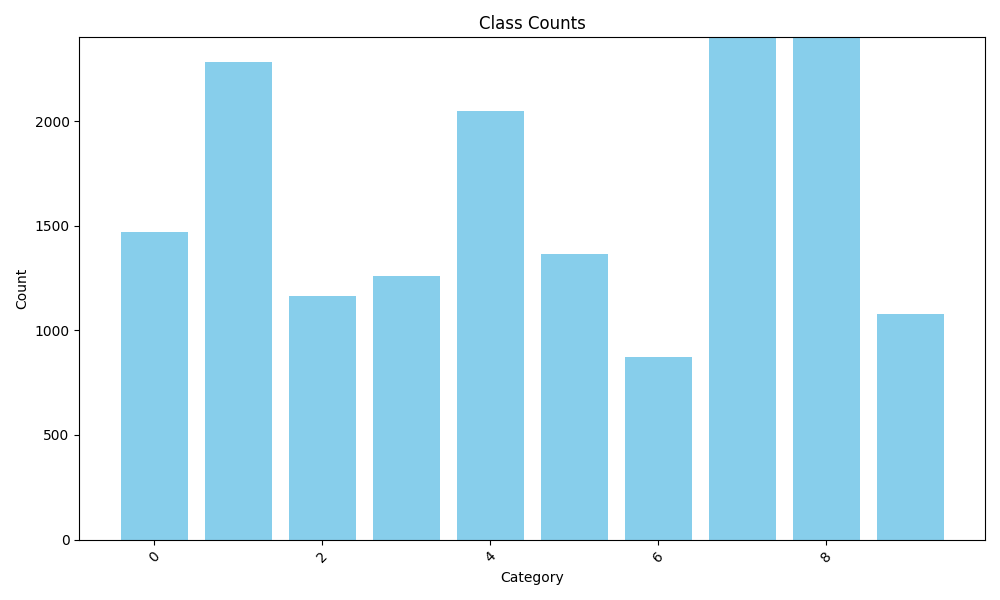
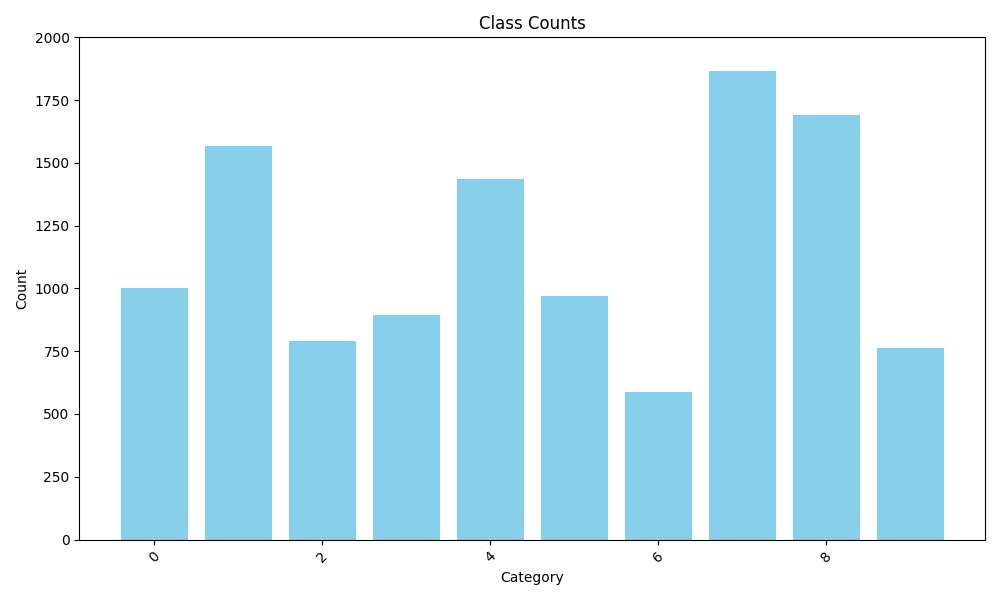
split dataset correctly

diff --git a/format_dataset_stratify.py b/format_dataset_stratify.py
@@ -1,0 +1,198 @@
+import shutil
+from typing import Tuple
+import pandas as pd
+import os
+import glob
+
+def generate_csv():
+    # Specify the directory containing images and labels
+    image_dir = 'datasets/trash_detection/images'
+    label_dir = 'datasets/trash_detection/labels'
+
+    # Get all image file paths
+    image_paths = glob.glob(os.path.join(image_dir, "*.jpg")) \
+        + glob.glob(os.path.join(image_dir, "*.png")) \
+        + glob.glob(os.path.join(image_dir, "*.jpeg"))
+
+    # Get all label file paths
+    label_paths = glob.glob(os.path.join(label_dir, "*.txt"))
+
+    # Create a dictionary to store data
+    data = {
+        "file_path": [],
+        "label_path": [],
+        "labels": [],
+    }
+
+    # Initialize a set to store class names
+    classes_set = set()
+
+    # Process each label file
+    for label_path in label_paths:
+        with open(label_path, "r") as file:
+            lines = file.readlines()
+            classes_in_image = {}
+            for line in lines:
+                if line.strip():
+                    class_id = line.split()[0]
+                    # Increment class count
+                    if class_id in classes_in_image:
+                        classes_in_image[class_id] += 1
+                    else:
+                        classes_in_image[class_id] = 1
+                    classes_set.add(class_id)
+            
+            # Save file path and labels to data
+            data["label_path"].append(label_path)
+            corresponding_image_path = label_path.replace(label_dir, image_dir).replace('.txt', '.jpg')
+            data["file_path"].append(corresponding_image_path)
+            data["labels"].append(classes_in_image)
+
+    # Add class columns to data
+    for class_name in sorted(classes_set):
+        data[class_name] = []
+
+    # Fill in class columns
+    for labels in data["labels"]:
+        for class_name in sorted(classes_set):
+            if class_name in labels:
+                data[class_name].append(labels[class_name])
+            else:
+                data[class_name].append(0)
+
+    # Remove labels column (no longer needed)
+    data.pop("labels")
+
+    # Create DataFrame from the data dictionary
+    df = pd.DataFrame(data)
+
+    return df
+
+    # Save the DataFrame to a CSV file
+    df.to_csv("yolo_image_data.csv", index=False)
+
+def check_stratified_condition(df: pd.DataFrame, desire_set: dict, class_names: list, condition: int, tolerance: int, ratio: float, random_state: int):
+    tmp_df = df.sample(frac=ratio, replace=False, random_state=random_state)
+    for name in class_names:
+        if tmp_df[name].sum() < desire_set[name] + tolerance \
+        and tmp_df[name].sum() > desire_set[name] - tolerance:
+            condition += 1
+    return tmp_df, condition
+
+def stratify_sample(
+    # desire_set: Tuple[dict] = None, 
+    # imageid_classname_path: str, 
+    ratios: Tuple[float] = None
+):
+    
+    train_ratio, val_ratio, test_ratio = ratios
+    # desire_train_set, desire_val_set, desire_test_set = desire_set  # goal of stratified splitting
+    # df = pd.read_csv(imageid_classname_path)
+    df = generate_csv()
+    # print(df.head())
+    df_classes = df.drop(columns=["file_path", "label_path"])
+    # print(df_classes.head())
+    df_classes = df_classes.sum(axis=0)
+    # print(df_classes)
+
+    desire_train_set = dict()
+    desire_val_set = dict()
+    desire_test_set = dict()
+    for class_name in df_classes.keys():
+        desire_train_set[class_name] = int(train_ratio * df_classes[class_name])
+        desire_val_set[class_name] = int(val_ratio * df_classes[class_name])
+        desire_test_set[class_name] = int(test_ratio * df_classes[class_name])
+
+    print(desire_train_set)
+    print(desire_val_set)
+    print(desire_test_set)
+    
+    tolerance = 5
+    class_names = list(desire_train_set.keys())
+    condition = 0
+    iter_limit = 10000
+    iter_count = 0
+    print('\nStarting iterating stratifing sampling...')
+
+    tmp_train_df = None
+    tmp_val_df = None
+    tmp_test_df = None
+
+    while condition < len(class_names) * 3:
+        iter_count += 1
+        _df = df.copy()
+        if iter_count == iter_limit:
+            print('Excessing iteration limit... update tolerance')
+            tolerance += 1
+        elif iter_count > iter_limit:
+            tolerance += 1
+    
+        condition = 0
+        # train set
+        tmp_train_df, condition = check_stratified_condition(_df, desire_train_set,
+                                                             class_names, condition,
+                                                             tolerance, train_ratio,
+                                                             random_state=iter_count)
+        # val set, ratio changed due to train set is taken out
+        _tmp_val_df = _df[~_df.index.isin(list(tmp_train_df.index))]
+        tmp_val_df, condition = check_stratified_condition(_tmp_val_df, desire_val_set,
+                                                           class_names, condition,
+                                                           tolerance, val_ratio / (val_ratio + test_ratio),
+                                                           random_state=iter_count)
+        # test set
+        _tmp_test_df = _tmp_val_df[~_tmp_val_df.index.isin(list(tmp_val_df.index))]
+        tmp_test_df, condition = check_stratified_condition(_tmp_test_df, desire_test_set,
+                                                            class_names, condition,
+                                                            tolerance, 1,
+                                                            random_state=iter_count)
+    print(f'Condition satisfied tolerance: {tolerance}')
+
+    print(tmp_train_df.head())
+    print(f"Train images: {len(tmp_train_df.index)}")
+    print(f"Val images: {len(tmp_val_df.index)}")
+    print(f"Test images: {len(tmp_test_df.index)}")
+
+    print("Instances in train split: ")
+    print(tmp_train_df.drop(columns=["file_path", "label_path"]).sum(axis=0))
+    print("Instances in val split: ")
+    print(tmp_val_df.drop(columns=["file_path", "label_path"]).sum(axis=0))
+    print("Instances in test split: ")
+    print(tmp_test_df.drop(columns=["file_path", "label_path"]).sum(axis=0))
+    
+    # Convert to list of tuples
+    train_files = list(zip(tmp_train_df['file_path'], tmp_train_df['label_path']))
+    val_files = list(zip(tmp_val_df['file_path'], tmp_val_df['label_path']))
+    test_files = list(zip(tmp_test_df['file_path'], tmp_test_df['label_path']))
+
+    # Split dataset output dir
+    output_dir = 'datasets/trash_detection_split'
+
+    # Define YOLO folder structure
+    image_dir_out = os.path.join(output_dir, 'images')
+    labels_dir_out = os.path.join(output_dir, 'labels')
+
+    # Create YOLO folder structure if not already present
+    for dir_path in [image_dir_out, labels_dir_out]:
+        os.makedirs(os.path.join(dir_path, 'train'), exist_ok=True)
+        os.makedirs(os.path.join(dir_path, 'val'), exist_ok=True)
+        os.makedirs(os.path.join(dir_path, 'test'), exist_ok=True)
+
+    # Helper function to copy files to their respective directories
+    def copy_files(file_list, subset_dir):
+        for img_path, ann_path in file_list:
+            shutil.copy(img_path, os.path.join(image_dir_out, subset_dir, os.path.basename(img_path)))
+            shutil.copy(ann_path, os.path.join(labels_dir_out, subset_dir, os.path.basename(ann_path)))
+
+    # Copy files to train, val, and test directories
+    print("Copying images...")
+    copy_files(train_files, "train")
+    copy_files(val_files, "val")
+    copy_files(test_files, "test")
+    print("Finished!")
+
+
+if __name__ == "__main__":
+    
+    stratify_sample(
+        ratios=(0.70, 0.15, 0.15)
+    )

diff --git a/count_dataset_classes.py b/count_dataset_classes.py
@@ -34,22 +34,24 @@ def plot_bar_chart(class_counts, save_path: str = "plot.png"):
     plt.ylabel('Count')
     plt.title('Class Counts')
     plt.xticks(rotation=45)
-    plt.ylim(0, 2400)
+    plt.ylim(0, 2000)
     plt.tight_layout()
     # plt.show()
 
     # dave_path = os.path.join(save_path, relative_path)
     plt.savefig(save_path)
 
-if __name__ == "__main__":
-
-    SPLIT = "train"
+def main(split: str = "full"):
+    SPLIT = split
     # Get the current directory where the Python script is located
     current_dir = os.path.dirname(os.path.abspath(__file__))
 
     # Append a relative path to the current directory
-    relative_path = f'datasets/trash_detection_split/labels/{SPLIT}'  # Replace with your relative path
-    relative_path = f'datasets/trash_detection/labels'
+    if SPLIT == "full":
+        relative_path = f'datasets/trash_detection/labels'
+    else:
+        relative_path = f'datasets/trash_detection_split/labels/{SPLIT}'  # Replace with your relative path
+    
     full_path = os.path.join(current_dir, relative_path)
     print(f"Full path: {full_path}")
 
@@ -58,3 +60,19 @@ if __name__ == "__main__":
     
     save_dir = os.path.join(current_dir, "my_dataset_class_count_" + SPLIT + ".png")
     plot_bar_chart(class_counts, save_dir)    
+    return class_counts
+
+if __name__ == "__main__":
+    class_counts = []
+    for split in ["full", "train", "val", "test"]:
+        class_counts.append(main(split))
+    
+    # Plot proportions
+    for i in range(len(class_counts)):
+        if i == 0: continue
+        for j in class_counts[i].keys():
+            class_counts[i][j] = f"{float(class_counts[i][j] / class_counts[0][j])*100.0:.2f}"
+
+    for aux in class_counts:
+        print(aux)
+    
